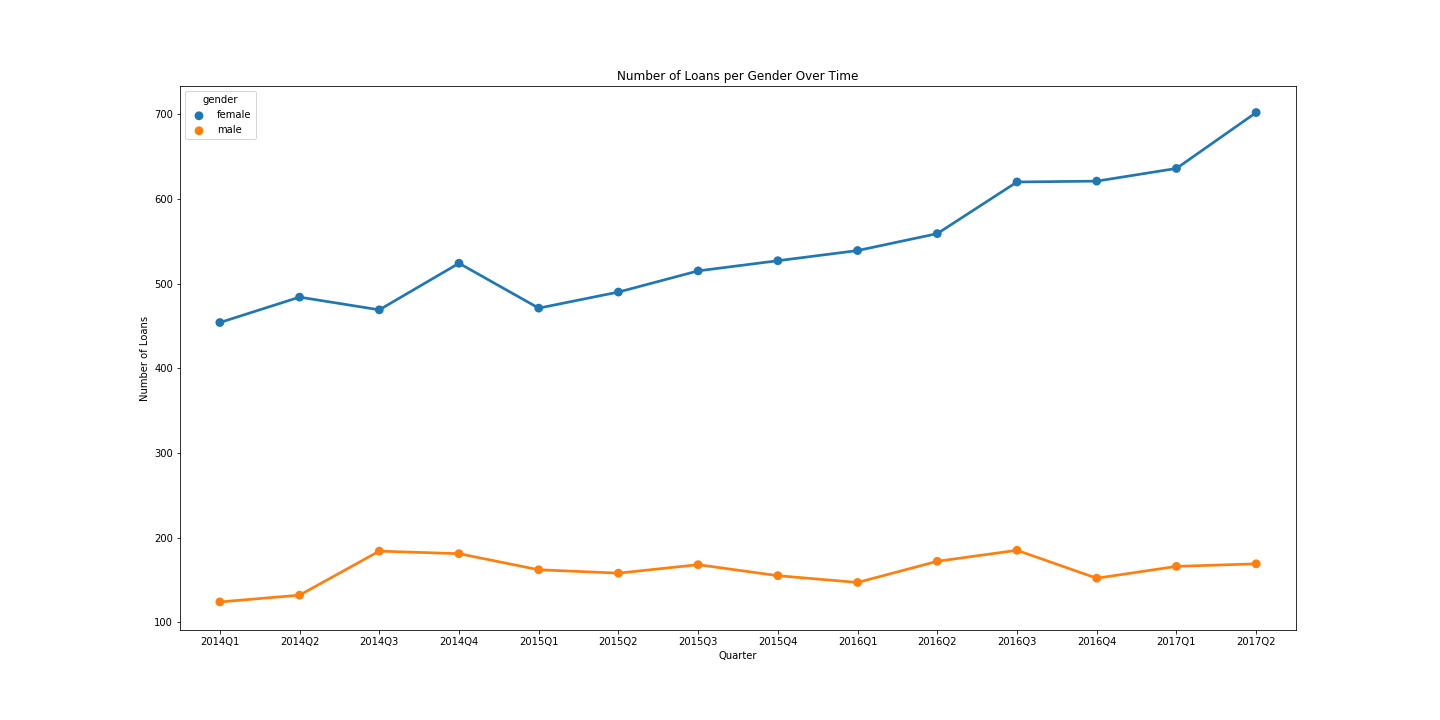
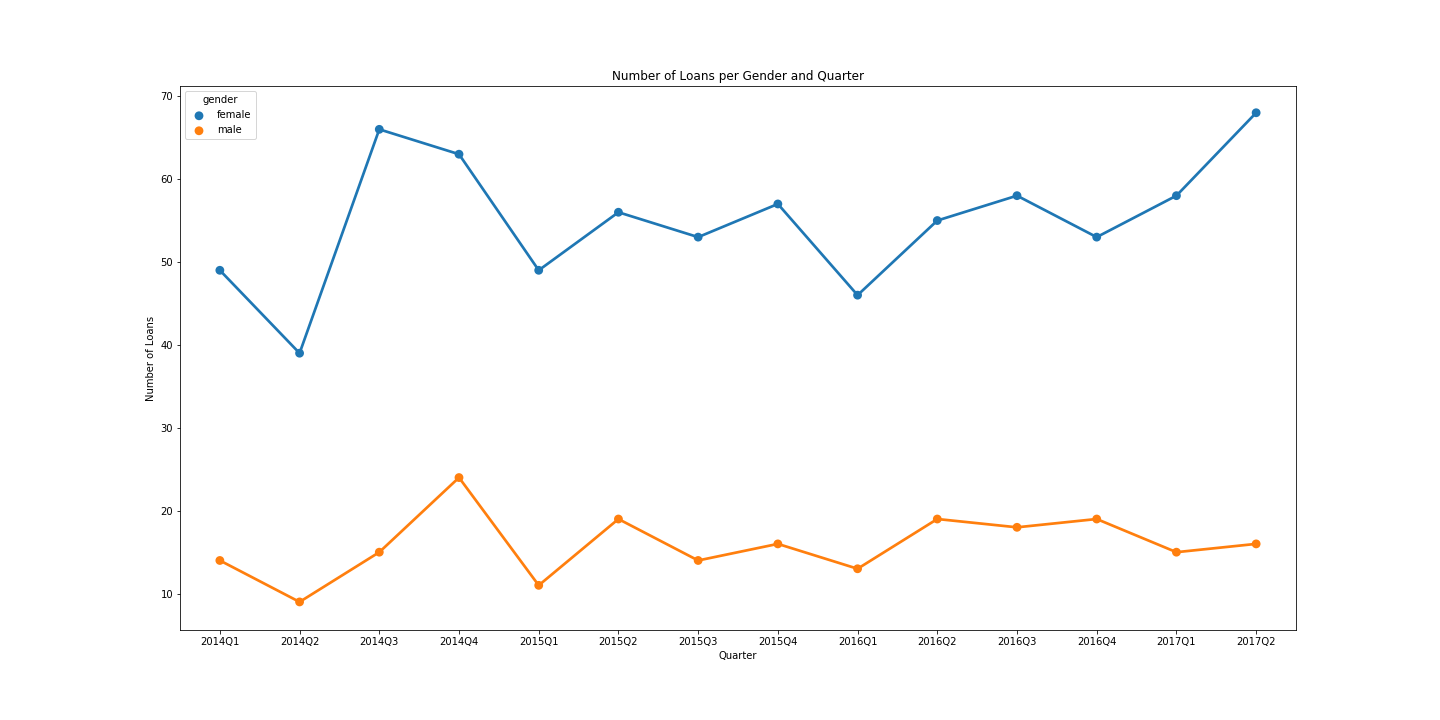
Cleaned up sector, gender, month, quarter files

diff --git a/narcos/number_loans_per_month.py b/narcos/number_loans_per_month.py
@@ -1,41 +1,22 @@
 import matplotlib.pyplot as plt
-import numpy as np
 import os
-import seaborn as sns
-from datetime import datetime
 import pandas as pd
 
-from narcos.kiva_data import KivaData
-df = KivaData(use_sample=True).loan_data
-df.describe()
-
-def numloansmonth():
+def number_loans_per_month(df):
 
     df['date'] = pd.to_datetime(df['date'])
     df['year'], df['month'] = df['date'].dt.year, df['date'].dt.month
-    #df
 
     df['mnth_yr'] = df['date'].apply(lambda x: x.strftime('%B-%Y'))
-    #df.head()
 
     df['mnth_yr2'] = df['date'].apply(lambda x: x.strftime('%Y-%m'))
-    #df.head()
 
     df.sort_values(by='date', inplace = True)
-    #df.head()
 
     #Number of loans per month.
     df.groupby('mnth_yr2').agg('count')[['id']].plot.line(y='id', figsize=(20,10), marker = 'o')
     plt.title('Number of Loans per Month')
     plt.ylabel("Number of Loans")
     plt.xlabel("MonthYear")
-    plt.savefig('loanspermonth.png')
-    #df.plot(figsize=(20,4))
+    plt.savefig(os.path.join('image', 'number_loans_per_month.png'))
     plt.show()
-
-    # df.plot.bar(x='mnth_yr2', y='id', figsize=(20, 10))
-    # plt.title('Number of Loans Per Month')
-    # plt.ylabel("Number of Loans")
-    # plt.xlabel("Month")
-    # plt.xticks(rotation=90)
-    # plt.show()

diff --git a/narcos/number_loans_per_quarter.py b/narcos/number_loans_per_quarter.py
@@ -1,15 +1,8 @@
 import matplotlib.pyplot as plt
-import numpy as np
 import os
-import seaborn as sns
-from datetime import datetime
 import pandas as pd
 
-from narcos.kiva_data import KivaData
-df = KivaData(use_sample=True).loan_data
-df.describe()
-
-def numloansquarter():
+def number_loans_per_quarter(df):
 
     df['mnth_yr2'] = df['date'].apply(lambda x: x.strftime('%Y-%m'))
     # Add a column for quarter.
@@ -24,16 +17,14 @@ def numloansquarter():
     plt.title('Number of Loans Per Quarter')
     plt.ylabel("Number of Loans")
     plt.xlabel("Quarter")
-    savepath = os.path.join('..', 'image')
-    plt.savefig(savepath + 'number_loans_per_quarter_line.png')
+    plt.savefig(os.path.join('image', 'number_loans_per_quarter_line.png'))
     plt.show()
 
     numloanq.plot.bar(x='Qtr', y='id', figsize=(20, 4))
     plt.title('Number of Loans Per Quarter')
     plt.ylabel("Number of Loans")
     plt.xlabel("Quarter")
-    savepath = os.path.join('..', 'image')
-    plt.savefig(savepath + 'number_loans_per_quarter_bar.png')
+    plt.savefig(os.path.join('image', 'number_loans_per_quarter_bar.png'))
     plt.show()
 
 

diff --git a/narcos/number_loans_per_sector.py b/narcos/number_loans_per_sector.py
@@ -1,23 +1,17 @@
+import os
 import matplotlib.pyplot as plt
-import numpy as np
 import seaborn as sns
-from datetime import datetime
 import pandas as pd
 
-from narcos.kiva_data import KivaData
-df = KivaData(use_sample=True).loan_data
-df.describe()
-
-def numloanssector():
+def number_loans_per_sector(df):
 
     df['mnth_yr2'] = df['date'].apply(lambda x: x.strftime('%Y-%m'))
     # Add a column for quarter.
     df['Qtr'] = pd.PeriodIndex(pd.to_datetime(df.mnth_yr2), freq='Q')
-    #df.head()
 
     ts_df = df.groupby(['Qtr', 'sector'])['id'].count().reset_index()
     ts_df = ts_df[ts_df['Qtr'] < pd.Period('2017Q3')]
-    # funded_amount
+    
     plt.figure(figsize=(20, 10))
     sns.pointplot(
         x='Qtr',
@@ -26,8 +20,8 @@ def numloanssector():
         alpha=0.8,
         data=ts_df,
         palette="Set2")
-    plt.title('Number of loans per Sector Over Time')
+    plt.title('Number of loans per Sector and Quarter')
     plt.ylabel('Number of Loans')
     plt.xlabel('Quarter')
-
+    plt.savefig(os.path.join('image', 'number_loans_per_sector.png'))
     plt.show()

diff --git a/narcos/median_amount_per_sector.py b/narcos/median_amount_per_sector.py
@@ -1,14 +1,9 @@
+import os
 import matplotlib.pyplot as plt
-import numpy as np
 import seaborn as sns
-from datetime import datetime
 import pandas as pd
 
-from narcos.kiva_data import KivaData
-df = KivaData(use_sample=True).loan_data
-df.describe()
-
-def medloansector():
+def median_amount_per_sector(df):
 
     df['mnth_yr2'] = df['date'].apply(lambda x: x.strftime('%Y-%m'))
     # Add a column for quarter.
@@ -31,5 +26,6 @@ def medloansector():
     plt.title('Median Loan Amount per Sector and Quarter')
     plt.ylabel('Median Loan Amount')
     plt.xlabel('Quarter')
+    plt.savefig(os.path.join('image', 'median_amount_per_sector.png'))
 
     plt.show()

diff --git a/narcos/number_loans_per_gender.py b/narcos/number_loans_per_gender.py
@@ -1,11 +1,9 @@
 import matplotlib.pyplot as plt
-import numpy as np
 import seaborn as sns
-from datetime import datetime
 import pandas as pd
 import os
 
-def numloansgender(df):
+def number_loans_per_gender(df):
 
     df['mnth_yr2'] = df['date'].apply(lambda x: x.strftime('%Y-%m'))
 
@@ -23,7 +21,7 @@ def numloansgender(df):
         hue='gender',
         alpha = 0.8,
         data=gd_df)
-    plt.title('Number of Loans per Gender Over Time')
+    plt.title('Number of Loans per Gender and Quarter')
     plt.ylabel('Number of Loans')
     plt.xlabel('Quarter')
     plt.savefig(os.path.join('image', 'num_loans_per_gender.png'))
